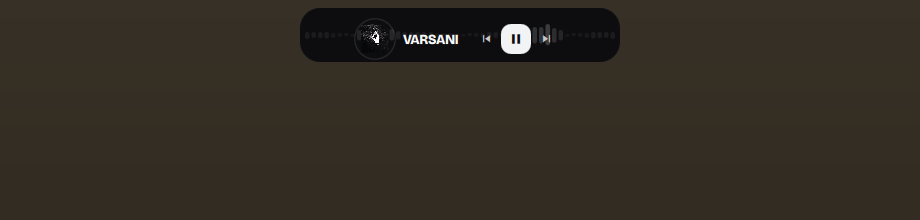
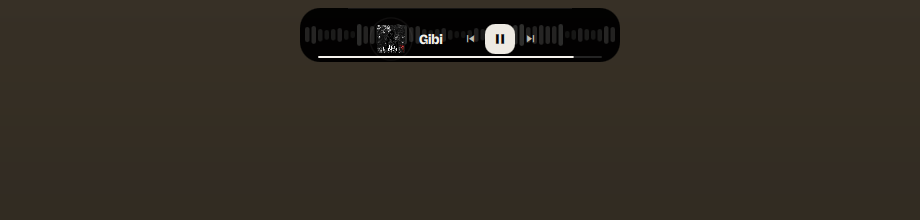
Add progress track to the mini player

Changed region(s): [[0.3348, 0.0818, 0.6391, 0.2727]]

diff --git a/DynamicIsland.qml b/DynamicIsland.qml
@@ -1431,6 +1431,35 @@ PanelWindow {
                 }
             }
 
+            // A quiet elapsed/remaining readout for the player-only pill. The
+            // unfilled track is what is left; the lit section is what has
+            // already played. Streams with no reported duration omit it rather
+            // than showing a permanently empty, misleading bar.
+            Rectangle {
+                visible: window.compactPlayerMode && window.mediaLengthKnown
+                z: 2
+                anchors.left: parent.left
+                anchors.right: parent.right
+                anchors.bottom: parent.bottom
+                anchors.leftMargin: 18
+                anchors.rightMargin: 18
+                anchors.bottomMargin: 4
+                height: 2
+                radius: 1
+                color: window.themeTrack
+
+                Rectangle {
+                    width: parent.width * Math.max(0, Math.min(1,
+                        window.mediaPosition / Math.max(1, window.islandState.media.length || 1)))
+                    height: parent.height
+                    radius: parent.radius
+                    color: window.themeText
+                    Behavior on width {
+                        NumberAnimation { duration: 220; easing.type: Easing.OutCubic }
+                    }
+                }
+            }
+
         }
 
         // ------------------------------------------------------ expanded panel

diff --git a/docs/index.html b/docs/index.html
@@ -398,7 +398,7 @@ footer .sp { flex: 1; }
 
     <figure class="release-card">
       <img src="screenshots/changelog/mini-player.png" alt="Player-only collapsed island with cover, title and transport buttons" loading="lazy" width="920" height="220">
-      <figcaption><b>Player-only collapsed mode</b><span>Turn hover opening off and the pill keeps only cover, title and previous/play/next over the full-width audio field.</span></figcaption>
+      <figcaption><b>Player-only collapsed mode</b><span>Cover, title and previous/play/next stay over the audio field; the bottom track separates elapsed time from what remains.</span></figcaption>
     </figure>
 
     <figure class="release-card">

diff --git a/README.tr.md b/README.tr.md
@@ -50,7 +50,7 @@ Her şey gri tonlamada çizilir. Hiçbir yerde vurgu rengi yoktur.
 
 <table>
 <tr>
-<td width="50%"><img src="docs/screenshots/changelog/mini-player.png" alt="Yalnız oynatıcı gösteren kapalı ada"><br><sub><b>Mini oynatıcı</b> — hover ile açma kapalıyken canlı ses alanı üzerinde yalnız kapak, başlık ve önceki/oynat/sonraki</sub></td>
+<td width="50%"><img src="docs/screenshots/changelog/mini-player.png" alt="Yalnız oynatıcı gösteren kapalı ada"><br><sub><b>Mini oynatıcı</b> — canlı ses alanı üzerinde kapak, başlık, önceki/oynat/sonraki ve kalan süre çizgisi</sub></td>
 <td width="50%"><img src="docs/screenshots/changelog/hover-setting.png" alt="Üzerine gelince aç ayarı"><br><sub><b>Etkileşimi seç</b> — hover ile aç veya kapalı tutup tam panel gerektiğinde tıkla</sub></td>
 </tr>
 <tr>

diff --git a/README.md b/README.md
@@ -50,7 +50,7 @@ Everything is drawn in greyscale. There is no accent colour anywhere.
 
 <table>
 <tr>
-<td width="50%"><img src="docs/screenshots/changelog/mini-player.png" alt="Player-only collapsed mode"><br><sub><b>Mini player</b> — when hover opening is off, keep only cover, title and previous/play/next over the live audio field</sub></td>
+<td width="50%"><img src="docs/screenshots/changelog/mini-player.png" alt="Player-only collapsed mode"><br><sub><b>Mini player</b> — cover, title, previous/play/next and a remaining-time track over the live audio field</sub></td>
 <td width="50%"><img src="docs/screenshots/changelog/hover-setting.png" alt="Open on hover setting"><br><sub><b>Choose the interaction</b> — hover to open, or leave it closed and click when the full panel is wanted</sub></td>
 </tr>
 <tr>
